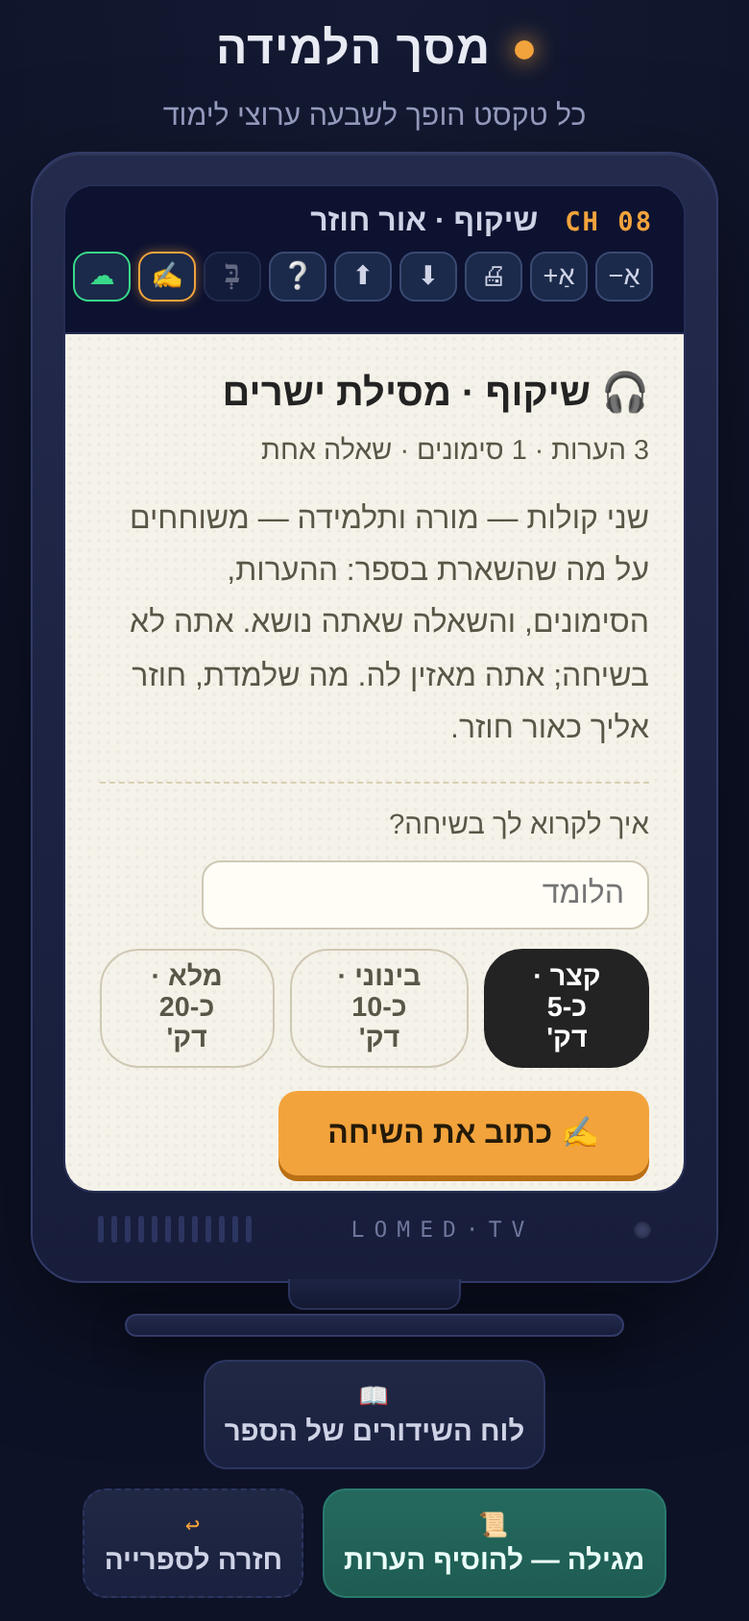
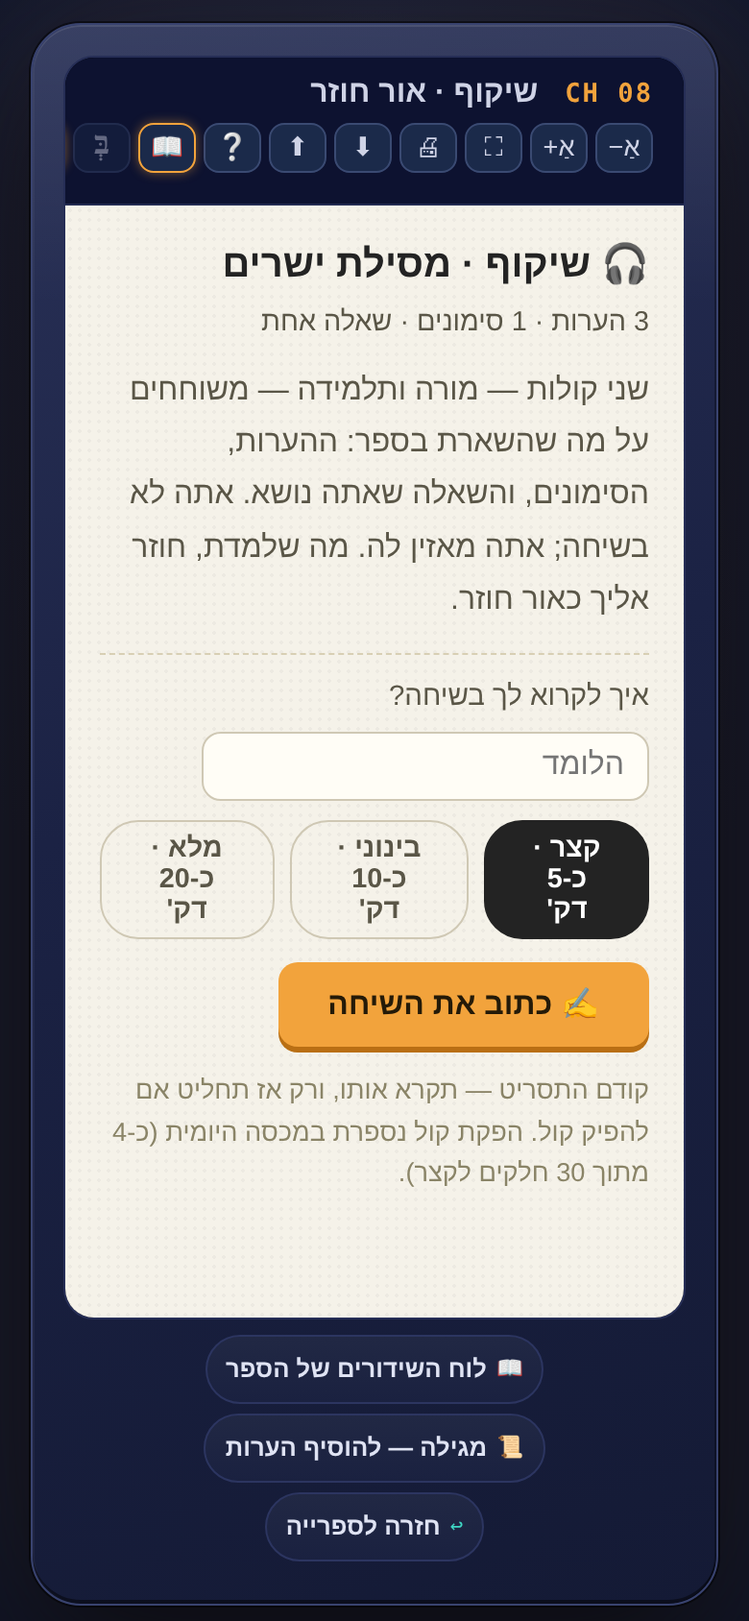
Add files via upload

diff --git a/public/guide/index.html b/public/guide/index.html
@@ -102,8 +102,8 @@
   <div class="wrap">
     <div class="brand"><span class="lamed">ל</span> מסך הלמידה</div>
     <h1>המדריך: כל מה שהאפליקציה יודעת, צעד אחרי צעד</h1>
-    <p class="lead">זה המדריך של מסך הלמידה: צעד אחרי צעד, מה האפליקציה יודעת לעשות ואיך מפעילים כל דבר. אפשר לקרוא, ואפשר ללחוץ על 🔊 ולשמוע. אותו מדריך פתוח גם בתוך האפליקציה: הכפתור ❔ למעלה.</p>
-    <nav class="toc" aria-label="תוכן"><a href="#install">להתקין ולהיכנס</a><a href="#face">השאלה שאתה נושא</a><a href="#book">להכניס ספר: חמישה שערים</a><a href="#guide">לוח השידורים והערוצים</a><a href="#layer">שכבת הלומד: לסמן ולהעיר</a><a href="#reader">הקראה כקריוקי</a><a href="#nikud">ניקוד בלחיצה</a><a href="#scroll">המגילה: כל הספר ברצף</a><a href="#mirror">שיקוף: שומעים את ההערות שלך</a><a href="#share">לימוד משותף</a><a href="#shelf">ארון הספרים</a><a href="#tools">הכפתורים למעלה</a><a href="#checks">מה לבדוק</a><a href="#feedback">ספרו לנו</a></nav>
+    <p class="lead">זה המדריך של מסך הלמידה: צעד אחרי צעד, מה האפליקציה יודעת לעשות ואיך מפעילים כל דבר. אפשר לקרוא, אפשר ללחוץ על 🔊 ולשמוע, ואפשר ללחוץ ▶ ולראות את הכול כסרטון. אותו מדריך פתוח גם בתוך האפליקציה: הכפתור ❔ למעלה.</p>
+    <nav class="toc" aria-label="תוכן"><a href="#install">להתקין ולהיכנס</a><a href="#face">השאלה שאתה נושא</a><a href="#book">להכניס ספר: חמישה שערים</a><a href="#guide">לוח השידורים והשלט</a><a href="#remote">השלט: הכול בתוך המסגרת</a><a href="#layer">שכבת הלומד: לסמן ולהעיר</a><a href="#reader">הקראה כקריוקי</a><a href="#dict">מילון ארמי מתחת למילים</a><a href="#nikud">ניקוד בלחיצה</a><a href="#scroll">המגילה: כל הספר ברצף</a><a href="#mirror">שיקוף: שומעים את ההערות שלך</a><a href="#share">לימוד משותף</a><a href="#shelf">ארון הספרים</a><a href="#tools">הכפתורים למעלה</a><a href="#checks">מה לבדוק</a><a href="#feedback">ספרו לנו</a></nav>
   </div>
 </header>
 
@@ -112,10 +112,10 @@
   <section class="step" id="install">
     <div>
       <h2><span class="n">1</span>להתקין ולהיכנס</h2>
-      <p>באייפון: הקישור ל-TestFlight מתקין את "מסך הלמידה" על מסך הבית. בכל מכשיר אחר: אותה אפליקציה בדיוק בדפדפן, בכתובת famous-rolypoly-1ab096.netlify.app. הכניסה לחשבון היא במייל בלבד, בלי סיסמה: לוחצים על הענן ☁ למעלה, מקלידים מייל, ולוחצים על הקישור שמגיע למייל.</p>
+      <p>באייפון: הקישור ל-TestFlight מתקין את "מסך הלמידה" על מסך הבית. בכל מכשיר אחר: אותה אפליקציה בדיוק בדפדפן, בכתובת famous-rolypoly-1ab096.netlify.app. הטלוויזיה נדלקת, ואחרי שנייה המסך תופס את כל החלון: למעלה שורת הכפתורים, למטה השלט, ובאמצע הדף. הכניסה לחשבון היא במייל בלבד, בלי סיסמה: לוחצים על הענן ☁ למעלה, מקלידים מייל, ולוחצים על הקישור שמגיע למייל.</p>
       <div class="tip"><b>שימו לב:</b> בלי כניסה לחשבון הערוצים לא עובדים. הענן ירוק = מחוברים.</div>
     </div>
-    <figure><img src="shots/s01-opening.png" alt="להתקין ולהיכנס" loading="lazy"><figcaption>להתקין ולהיכנס</figcaption></figure>
+    <figure><img src="shots/s01-opening.png?v=2026-10-06" alt="להתקין ולהיכנס" loading="lazy"><figcaption>להתקין ולהיכנס</figcaption></figure>
   </section>
 
   <section class="step" id="face">
@@ -124,101 +124,119 @@
       <p>האפליקציה נפתחת בשאלה: מה השאלה שאתה נושא איתך אל הספר? אפשר לכתוב כל דבר שמעסיק אותך. השאלה מלווה את הלימוד: הסיכום, המבחן וההקראה מתייחסים אליה. אפשר לדלג, ולשנות אותה בכל רגע מהספרייה.</p>
       
     </div>
-    <figure><img src="shots/s01-opening.png" alt="השאלה שאתה נושא" loading="lazy"><figcaption>השאלה שאתה נושא</figcaption></figure>
+    <figure><img src="shots/s01-opening.png?v=2026-10-06" alt="השאלה שאתה נושא" loading="lazy"><figcaption>השאלה שאתה נושא</figcaption></figure>
   </section>
 
   <section class="step" id="book">
     <div>
       <h2><span class="n">3</span>להכניס ספר: חמישה שערים</h2>
-      <p>בספרייה לוחצים ⊕ ספר חדש. חמש דרכים: להדביק טקסט · להעלות קובץ (PDF, וורד, טקסט) · לצלם דף מספר מודפס (המצלמה קוראת את הדף, גם ארמית) · להקליט שיעור או הרצאה (ההקלטה מתומללת והופכת לספר) · ארון הספרים: שבעים ספרי מקור מוכנים, לוחצים על ספר והוא בספרייה. הטקסט מתחלק לפרקים לבד.</p>
+      <p>בשלט שבתחתית הטלוויזיה לוחצים + ספר חדש. חמש דרכים: להדביק טקסט · להעלות קובץ (PDF, וורד, טקסט) · לצלם דף מספר מודפס (המצלמה קוראת את הדף, גם ארמית) · להקליט שיעור או הרצאה (ההקלטה מתומללת והופכת לספר) · ארון הספרים: שבעים ספרי מקור מוכנים, לוחצים על ספר והוא בספרייה. הטקסט מתחלק לפרקים לבד.</p>
       <div class="tip"><b>שימו לב:</b> בדף הזוהר: השער "זוהר עם סולם צמוד" מושך מאמר מספריא, לפי פרשה ומאמר, עם הארמית והסולם זה מול זה.</div>
     </div>
-    <figure><img src="shots/s02-intake.png" alt="להכניס ספר: חמישה שערים" loading="lazy"><figcaption>להכניס ספר: חמישה שערים</figcaption></figure>
+    <figure><img src="shots/s02-intake.png?v=2026-10-06" alt="להכניס ספר: חמישה שערים" loading="lazy"><figcaption>להכניס ספר: חמישה שערים</figcaption></figure>
   </section>
 
   <section class="step" id="guide">
     <div>
-      <h2><span class="n">4</span>לוח השידורים והערוצים</h2>
-      <p>לוחצים על ספר ומגיעים ללוח השידורים: רשימת הפרקים. לוחצים על פרק ומתחת למסך מופיעים הערוצים: 00 טקסט הפרק · 01 סיכום · 02 מושגים וכללים · 03 מפת חשיבה · 04 תרשים זרימה · 05 מבחן · 06 כרטיסיות · 07 הקראה. כל ערוץ מופק פעם אחת ונשמר עם הספר.</p>
-      <div class="tip"><b>שימו לב:</b> המסגרת של הטלוויזיה והמקשים קבועים; רק התוכן שבתוך המסך נגלל.</div>
+      <h2><span class="n">4</span>לוח השידורים והשלט</h2>
+      <p>לוחצים על ספר ומגיעים ללוח השידורים: רשימת הפרקים. לוחצים על פרק, ובשלט שבתחתית הטלוויזיה מופיעים הערוצים: 00 טקסט הפרק · 01 סיכום · 02 מושגים וכללים · 03 מפת חשיבה · 04 תרשים זרימה · 05 מבחן · 06 כרטיסיות · 07 הקראה. המקשים קטנים, ונגיעה בהם מגדילה אותם. כל ערוץ מופק פעם אחת ונשמר עם הספר; מספר זהוב מסמן ערוץ שכבר מוכן.</p>
+      <div class="tip"><b>שימו לב:</b> המסגרת, השורה העליונה והשלט קבועים; רק הדף שבתוך המסך נגלל. ⛶ בשורה העליונה פותח מסך מלא.</div>
     </div>
-    <figure><img src="shots/s03-guide.png" alt="לוח השידורים והערוצים" loading="lazy"><figcaption>לוח השידורים והערוצים</figcaption></figure>
+    <figure><img src="shots/s03-guide.png?v=2026-10-06" alt="לוח השידורים והשלט" loading="lazy"><figcaption>לוח השידורים והשלט</figcaption></figure>
+  </section>
+
+  <section class="step" id="remote">
+    <div>
+      <h2><span class="n">5</span>השלט: הכול בתוך המסגרת</h2>
+      <p>כל הכפתורים של האפליקציה יושבים בתוך הטלוויזיה: למעלה שורת הכלים, ולמטה, בפס הכחול ליד LOMED·TV, השלט. השלט משתנה לפי המסך: בספרייה ספר חדש וצילום, בלוח השידורים המשך לימוד ומגילה, בפרק הערוצים 00–07, ובמגילה סימנייה, התחלה, סוף ומקשי הלימוד הגמיש. מקש זהוב הוא מקש שמפעיל בינה מלאכותית.</p>
+      <div class="tip"><b>שימו לב:</b> בטלפון המקשים גדולים יותר; במחשב הם גדלים כשמרחפים מעליהם.</div>
+    </div>
+    <figure><img src="shots/s13-remote.png?v=2026-10-06" alt="השלט: הכול בתוך המסגרת" loading="lazy"><figcaption>השלט: הכול בתוך המסגרת</figcaption></figure>
   </section>
 
   <section class="step" id="layer">
     <div>
-      <h2><span class="n">5</span>שכבת הלומד: לסמן ולהעיר</h2>
-      <p>בטקסט הפרק גוררים על מילה או כמה מילים, ולשונית נפתחת מעל: מרקר בשלושה צבעים, הדגשה, קו תחתון, והערה. לקטע שלם: לוחצים על משפט ההתחלה ואז על משפט הסוף. ההערה נכתבת, או נאמרת בקול 🎙. ההערות ממוספרות בשוליים כמו בגמרא, ונשמרות בענן. אותה שכבה עובדת גם על הסיכום, המושגים והכרטיסיות, כי הסימונים שלך הם שלך, גם על מה שהמכונה כתבה.</p>
+      <h2><span class="n">6</span>שכבת הלומד: לסמן ולהעיר</h2>
+      <p>בטקסט הפרק גוררים על מילה או כמה מילים, ולשונית נפתחת מעל: מרקר בשלושה צבעים, הדגשה, קו תחתון, והערה. לקטע שלם: לוחצים על משפט ההתחלה, ומופיעה תווית "התחלה"; מרחפים או נוגעים במשפט מאוחר יותר ורואים את הקטע שייבחר; לחיצה שנייה סוגרת את הקטע עם תווית "סוף", ולחיצה שלישית מתחילה קטע חדש. ההערה נכתבת, או נאמרת בקול 🎙. ההערות ממוספרות בשוליים כמו בגמרא, ונשמרות בענן. אותה שכבה עובדת גם על הסיכום, המושגים והכרטיסיות.</p>
       <div class="tip"><b>שימו לב:</b> הכפתור ✍ למעלה מציג או מסתיר את שכבת הלומד.</div>
     </div>
-    <figure><img src="shots/s04-layer.png" alt="שכבת הלומד: לסמן ולהעיר" loading="lazy"><figcaption>שכבת הלומד: לסמן ולהעיר</figcaption></figure>
+    <figure><img src="shots/s04-layer.png?v=2026-10-06" alt="שכבת הלומד: לסמן ולהעיר" loading="lazy"><figcaption>שכבת הלומד: לסמן ולהעיר</figcaption></figure>
   </section>
 
   <section class="step" id="reader">
     <div>
-      <h2><span class="n">6</span>הקראה כקריוקי</h2>
-      <p>לוחצים 07 הקראה. הדף נשאר, ובשורה העליונה מופיע נגן קטן: ▶ מתחיל, המשפט הנקרא מואר, והמילים שכבר נקראו מתמלאות בצבע. לחיצה על משפט בדף מתחילה ממנו. החץ ▾ פותח הגדרות: קצב, צבע ההארה, ובדף סולם: להקריא הכול, רק את הארמית, או רק את הסולם. ניקוד, גרשיים וראשי תיבות לא מוקראים, אלא מתפרשים.</p>
+      <h2><span class="n">7</span>הקראה כקריוקי</h2>
+      <p>לוחצים 07 הקראה. הדף נשאר, ובשורה העליונה מופיע נגן קטן: ▶ מתחיל, המשפט הנקרא מואר, המילים שכבר נקראו מתמלאות בצבע, והדף גולש ברציפות כך שהשורה הנקראת נשארת תמיד באותו גובה, מעט מעל מרכז המסך. לחיצה על משפט בדף מתחילה ממנו. החץ ▾ פותח הגדרות: קצב, צבע ההארה, ובדף סולם: להקריא הכול, רק את הארמית, או רק את הסולם.</p>
       <div class="tip"><b>שימו לב:</b> 🎙 קול איכותי: קול אנושי מ-ElevenLabs. מופק פעם אחת לכל פרק ונשמר, ומאז מתנגן מיד גם בטלפון.</div>
     </div>
-    <figure><img src="shots/s05-reader.png" alt="הקראה כקריוקי" loading="lazy"><figcaption>הקראה כקריוקי</figcaption></figure>
+    <figure><img src="shots/s05-reader.png?v=2026-10-06" alt="הקראה כקריוקי" loading="lazy"><figcaption>הקראה כקריוקי</figcaption></figure>
+  </section>
+
+  <section class="step" id="dict">
+    <div>
+      <h2><span class="n">8</span>מילון ארמי מתחת למילים</h2>
+      <p>בדף זוהר, הכפתור 📖 למעלה פותח את המילון הארמי: מתחת לכל מילה ארמית מופיע, בקטן ובניקוד, הפירוש העברי שלה לפי ההקשר. בזמן ההקראה המילה שנקראת מתמלאת למעלה והפירוש שלה מתחתיה. פסקאות הסולם נשארות נקיות. הפירושים מוכנים פעם אחת לכל פרק ונשמרים עם הספר.</p>
+      <div class="tip"><b>שימו לב:</b> בפעם הראשונה בפרק הכפתור מהבהב כמה שניות בזמן שהמילון מוכן.</div>
+    </div>
+    <figure><img src="shots/s12-dict.png?v=2026-10-06" alt="מילון ארמי מתחת למילים" loading="lazy"><figcaption>מילון ארמי מתחת למילים</figcaption></figure>
   </section>
 
   <section class="step" id="nikud">
     <div>
-      <h2><span class="n">7</span>ניקוד בלחיצה</h2>
+      <h2><span class="n">9</span>ניקוד בלחיצה</h2>
       <p>הכפתור בְּ למעלה מוסיף ניקוד לטקסט שאין בו ניקוד, כמו פירוש הסולם. לחיצה נוספת מסתירה. הניקוד מגיע מהנקדן של דיקטה, נשמר עם הספר, והסימונים שלך נשארים במקומם בשני המצבים.</p>
       <div class="tip"><b>שימו לב:</b> ראשי תיבות לא מנוקדים בכוונה.</div>
     </div>
-    <figure><img src="shots/s06-nikud.png" alt="ניקוד בלחיצה" loading="lazy"><figcaption>ניקוד בלחיצה</figcaption></figure>
+    <figure><img src="shots/s06-nikud.png?v=2026-10-06" alt="ניקוד בלחיצה" loading="lazy"><figcaption>ניקוד בלחיצה</figcaption></figure>
   </section>
 
   <section class="step" id="scroll">
     <div>
-      <h2><span class="n">8</span>המגילה: כל הספר ברצף</h2>
+      <h2><span class="n">10</span>המגילה: כל הספר ברצף</h2>
       <p>מלוח השידורים: 📜 מגילה. כל הספר ברצף אחד, עם אותם מרקרים והערות, חיפוש שמבין עברית, סימנייה "עד כאן קראתי", ולימוד גמיש: מסמנים קטע ומפיקים עליו סיכום, מושגים או מבחן.</p>
       
     </div>
-    <figure><img src="shots/s07-scroll.png" alt="המגילה: כל הספר ברצף" loading="lazy"><figcaption>המגילה: כל הספר ברצף</figcaption></figure>
+    <figure><img src="shots/s07-scroll.png?v=2026-10-06" alt="המגילה: כל הספר ברצף" loading="lazy"><figcaption>המגילה: כל הספר ברצף</figcaption></figure>
   </section>
 
   <section class="step" id="mirror">
     <div>
-      <h2><span class="n">9</span>שיקוף: שומעים את ההערות שלך</h2>
+      <h2><span class="n">11</span>שיקוף: שומעים את ההערות שלך</h2>
       <p>אחרי שלושה סימונים או הערות בספר מופיע לידו 🎧 שיקוף. שני קולות, מורה ותלמידה, משוחחים על מה שסימנת וכתבת, ועל השאלה שאתה נושא. קודם קוראים את התסריט, ואז מפיקים את הקול. הקובץ נשמר ליד הספר להאזנה חוזרת.</p>
       <div class="tip"><b>שימו לב:</b> עדיין בבדיקה: אם הפקת הקול נכשלת, ספרו לנו.</div>
     </div>
-    <figure><img src="shots/s08-mirror.png" alt="שיקוף: שומעים את ההערות שלך" loading="lazy"><figcaption>שיקוף: שומעים את ההערות שלך</figcaption></figure>
+    <figure><img src="shots/s08-mirror.png?v=2026-10-06" alt="שיקוף: שומעים את ההערות שלך" loading="lazy"><figcaption>שיקוף: שומעים את ההערות שלך</figcaption></figure>
   </section>
 
   <section class="step" id="share">
     <div>
-      <h2><span class="n">10</span>לימוד משותף</h2>
+      <h2><span class="n">12</span>לימוד משותף</h2>
       <p>מלוח השידורים: 🕯 לימוד משותף. מתקבל קישור, שולחים לחבר, והוא פותח את אותו דף אצלו. מי שמחזיק את הדף גולל והשני נגרר; "חופשי" משחרר, "קח את הדף" מעביר. הסימונים וההערות של כל אחד מופיעים אצל השני בצבע שלו. 📹 פותח וידאו וקול בתוך הדף.</p>
       <div class="tip"><b>שימו לב:</b> החבר צריך להיכנס עם מייל משלו.</div>
     </div>
-    <figure><img src="shots/s09-share.png" alt="לימוד משותף" loading="lazy"><figcaption>לימוד משותף</figcaption></figure>
+    <figure><img src="shots/s09-share.png?v=2026-10-06" alt="לימוד משותף" loading="lazy"><figcaption>לימוד משותף</figcaption></figure>
   </section>
 
   <section class="step" id="shelf">
     <div>
-      <h2><span class="n">11</span>ארון הספרים</h2>
+      <h2><span class="n">13</span>ארון הספרים</h2>
       <p>📚 ארון הספרים: שבעים ספרי מקור, מכתבי האר"י ועד הזוהר. מחפשים בשם, לוחצים, והספר בספרייה. ספר גדול מוצע לפי שערים. מהארון עצמו יש כפתור 📺 חזרה למסך הלמידה.</p>
       
     </div>
-    <figure><img src="shots/s10-shelf.png" alt="ארון הספרים" loading="lazy"><figcaption>ארון הספרים</figcaption></figure>
+    <figure><img src="shots/s10-shelf.png?v=2026-10-06" alt="ארון הספרים" loading="lazy"><figcaption>ארון הספרים</figcaption></figure>
   </section>
 
   <section class="step" id="tools">
     <div>
-      <h2><span class="n">12</span>הכפתורים למעלה</h2>
-      <p>אַ− אַ+ מקטינים ומגדילים את הטקסט · 🖨 מדפיס את מה שמוצג · ⬇ מוריד גיבוי של כל הספרים וההערות לקובץ · ⬆ משחזר מגיבוי · בְּ ניקוד · ✍ שכבת הלומד · ☁ החשבון · ❔ המדריך הזה.</p>
+      <h2><span class="n">14</span>הכפתורים למעלה</h2>
+      <p>אַ− אַ+ מקטינים ומגדילים את הטקסט · ⛶ מסך מלא · 🖨 מדפיס את מה שמוצג · ⬇ מוריד גיבוי של כל הספרים וההערות לקובץ · ⬆ משחזר מגיבוי · ❔ המדריך הזה · 📖 מילון ארמי · בְּ ניקוד · ✍ שכבת הלומד · ☁ החשבון.</p>
       
     </div>
-    <figure><img src="shots/s11-bar.png" alt="הכפתורים למעלה" loading="lazy"><figcaption>הכפתורים למעלה</figcaption></figure>
+    <figure><img src="shots/s11-bar.png?v=2026-10-06" alt="הכפתורים למעלה" loading="lazy"><figcaption>הכפתורים למעלה</figcaption></figure>
   </section>
   <section class="step" id="checks">
     <div>
-      <h2><span class="n">13</span>מה כדאי לבדוק</h2>
+      <h2><span class="n">15</span>מה כדאי לבדוק</h2>
       <p>לא חייבים הכול. אבל אם תעברו על הדברים האלה, נדע הרבה. סמנו לעצמכם מה עשיתם — הסימון נשמר בדפדפן שלכם בלבד.</p>
     </div>
     <div class="checks">
@@ -227,17 +245,19 @@
       <div class="check"><input type="checkbox" id="t3"><label for="t3">להדביק טקסט ולהפוך אותו לספר<small>החלוקה לפרקים הגיונית?</small></label></div>
       <div class="check"><input type="checkbox" id="t4"><label for="t4">להביא ספר מארון הספרים<small>מצאתם מה שחיפשתם? הספר נפתח?</small></label></div>
       <div class="check"><input type="checkbox" id="t5"><label for="t5">לצלם דף מספר מודפס<small>הטקסט שיצא נאמן לדף?</small></label></div>
-      <div class="check"><input type="checkbox" id="t6"><label for="t6">לסמן במרקר ולכתוב הערה, גם על סיכום<small>קל לגרור בטלפון? ההערה נשמרה? הופיעה גם במכשיר אחר?</small></label></div>
-      <div class="check"><input type="checkbox" id="t7"><label for="t7">להפעיל לפחות שלושה ערוצים על פרק אחד<small>איזה ערוץ הכי עזר? איזה לא?</small></label></div>
-      <div class="check"><input type="checkbox" id="t8"><label for="t8">להקריא פרק עם הקריוקי<small>ההארה עקבה אחרי הקול? הקול האיכותי נשמע טוב יותר?</small></label></div>
-      <div class="check"><input type="checkbox" id="t9"><label for="t9">להוסיף ניקוד לפירוש<small>הניקוד הגיוני? משהו נראה שגוי?</small></label></div>
-      <div class="check"><input type="checkbox" id="t10"><label for="t10">לחזור למחרת<small>הספר חיכה איפה שעזבתם? מה גרם לכם לחזור, או לא?</small></label></div>
+      <div class="check"><input type="checkbox" id="t6"><label for="t6">לסמן קטע: לחיצה על משפט ההתחלה ואז על משפט הסוף<small>ראיתם את התוויות "התחלה" ו"סוף"? ברור מה נבחר?</small></label></div>
+      <div class="check"><input type="checkbox" id="t7"><label for="t7">לסמן במרקר ולכתוב הערה, גם על סיכום<small>קל לגרור בטלפון? ההערה נשמרה? הופיעה גם במכשיר אחר?</small></label></div>
+      <div class="check"><input type="checkbox" id="t8"><label for="t8">להפעיל לפחות שלושה ערוצים על פרק אחד<small>איזה ערוץ הכי עזר? איזה לא?</small></label></div>
+      <div class="check"><input type="checkbox" id="t9"><label for="t9">לפתוח את המילון הארמי 📖 בדף זוהר<small>הפירושים נכונים? קריאים? מפריעים לקריאה?</small></label></div>
+      <div class="check"><input type="checkbox" id="t10"><label for="t10">להקריא פרק עם הקריוקי<small>ההארה עקבה אחרי הקול? הקול האיכותי נשמע טוב יותר?</small></label></div>
+      <div class="check"><input type="checkbox" id="t11"><label for="t11">להוסיף ניקוד לפירוש<small>הניקוד הגיוני? משהו נראה שגוי?</small></label></div>
+      <div class="check"><input type="checkbox" id="t12"><label for="t12">לחזור למחרת<small>הספר חיכה איפה שעזבתם? מה גרם לכם לחזור, או לא?</small></label></div>
     </div>
   </section>
 
   <section class="step" id="feedback">
     <div>
-      <h2><span class="n">14</span>ספרו לנו</h2>
+      <h2><span class="n">16</span>ספרו לנו</h2>
       <p>כמה שאלות קצרות. מה שתכתבו מגיע ישירות לחיים. אפשר למלא כמה פעמים, בכל שלב.</p>
     </div>
     <form class="form" id="fb" novalidate>
